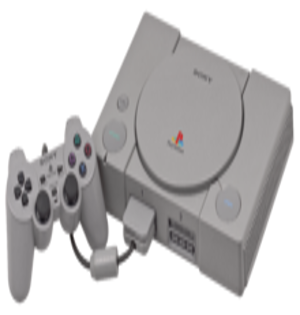
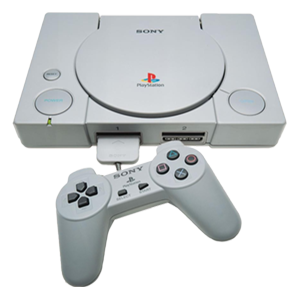
Botón Reset de las secciónes consolas y videojuegos Done.
Imagenes Consolas mejorada

diff --git a/ProyectoInicial/src/vista/PantallaConsolas.java b/ProyectoInicial/src/vista/PantallaConsolas.java
@@ -65,7 +65,7 @@ public class PantallaConsolas extends JPanel {
 		btnBuscar.setBorderPainted(false);
 		btnBuscar.setOpaque(false);
 		btnBuscar.setFont(new Font("Bell MT", Font.BOLD, 20));
-		btnBuscar.setBounds(15, 15, 100, 25);
+		btnBuscar.setBounds(10, 15, 125, 25);
 		layeredPane.add(btnBuscar);
 		
 		nombreField = new JTextField();
@@ -211,6 +211,8 @@ public class PantallaConsolas extends JPanel {
 		this.add(imgFondo);
 		
 		JButton btnReset = new JButton("Reset");
+		btnReset.setForeground(Color.WHITE);
+		btnReset.setFont(new Font("Dialog", Font.BOLD, 20));
 		btnReset.addActionListener(new ActionListener() {
 			public void actionPerformed(ActionEvent arg0) {
 				list.setListData(control.getApiConsola().getNombreDatos());
@@ -218,7 +220,9 @@ public class PantallaConsolas extends JPanel {
 				nombreField.setText("");
 			}
 		});
-		btnReset.setBounds(25, 49, 89, 23);
+		btnReset.setBounds(10, 45, 125, 25);
+		btnReset.setContentAreaFilled(false);
+		btnReset.setBorderPainted(false);
 		layeredPane.add(btnReset);
 	}
 }

diff --git a/ProyectoInicial/src/vista/PantallaJuegos.java b/ProyectoInicial/src/vista/PantallaJuegos.java
@@ -149,10 +149,12 @@ public class PantallaJuegos extends JPanel {
 		btnBuscar.setBorderPainted(false);
 		btnBuscar.setOpaque(false);
 		btnBuscar.setFont(new Font("Bell MT", Font.BOLD, 20));
-		btnBuscar.setBounds(15, 15, 100, 25);
+		btnBuscar.setBounds(10, 15, 125, 25);
 		layeredPane.add(btnBuscar);
 		
 		JButton btnReset = new JButton("Reset");
+		btnReset.setForeground(Color.WHITE);
+		btnReset.setFont(new Font("Dialog", Font.BOLD, 20));
 		btnReset.addActionListener(new ActionListener() {
 			public void actionPerformed(ActionEvent arg0) {
 				list.setListData(control.getApiJuegos().getNombreDatos());
@@ -163,7 +165,9 @@ public class PantallaJuegos extends JPanel {
 				nombreField.setText("");
 			}
 		});
-		btnReset.setBounds(25, 49, 90, 25);
+		btnReset.setBounds(10, 45, 125, 25);
+		btnReset.setContentAreaFilled(false);
+		btnReset.setBorderPainted(false);
 		layeredPane.add(btnReset);
 
 		//IMAGEN DE FONDO
